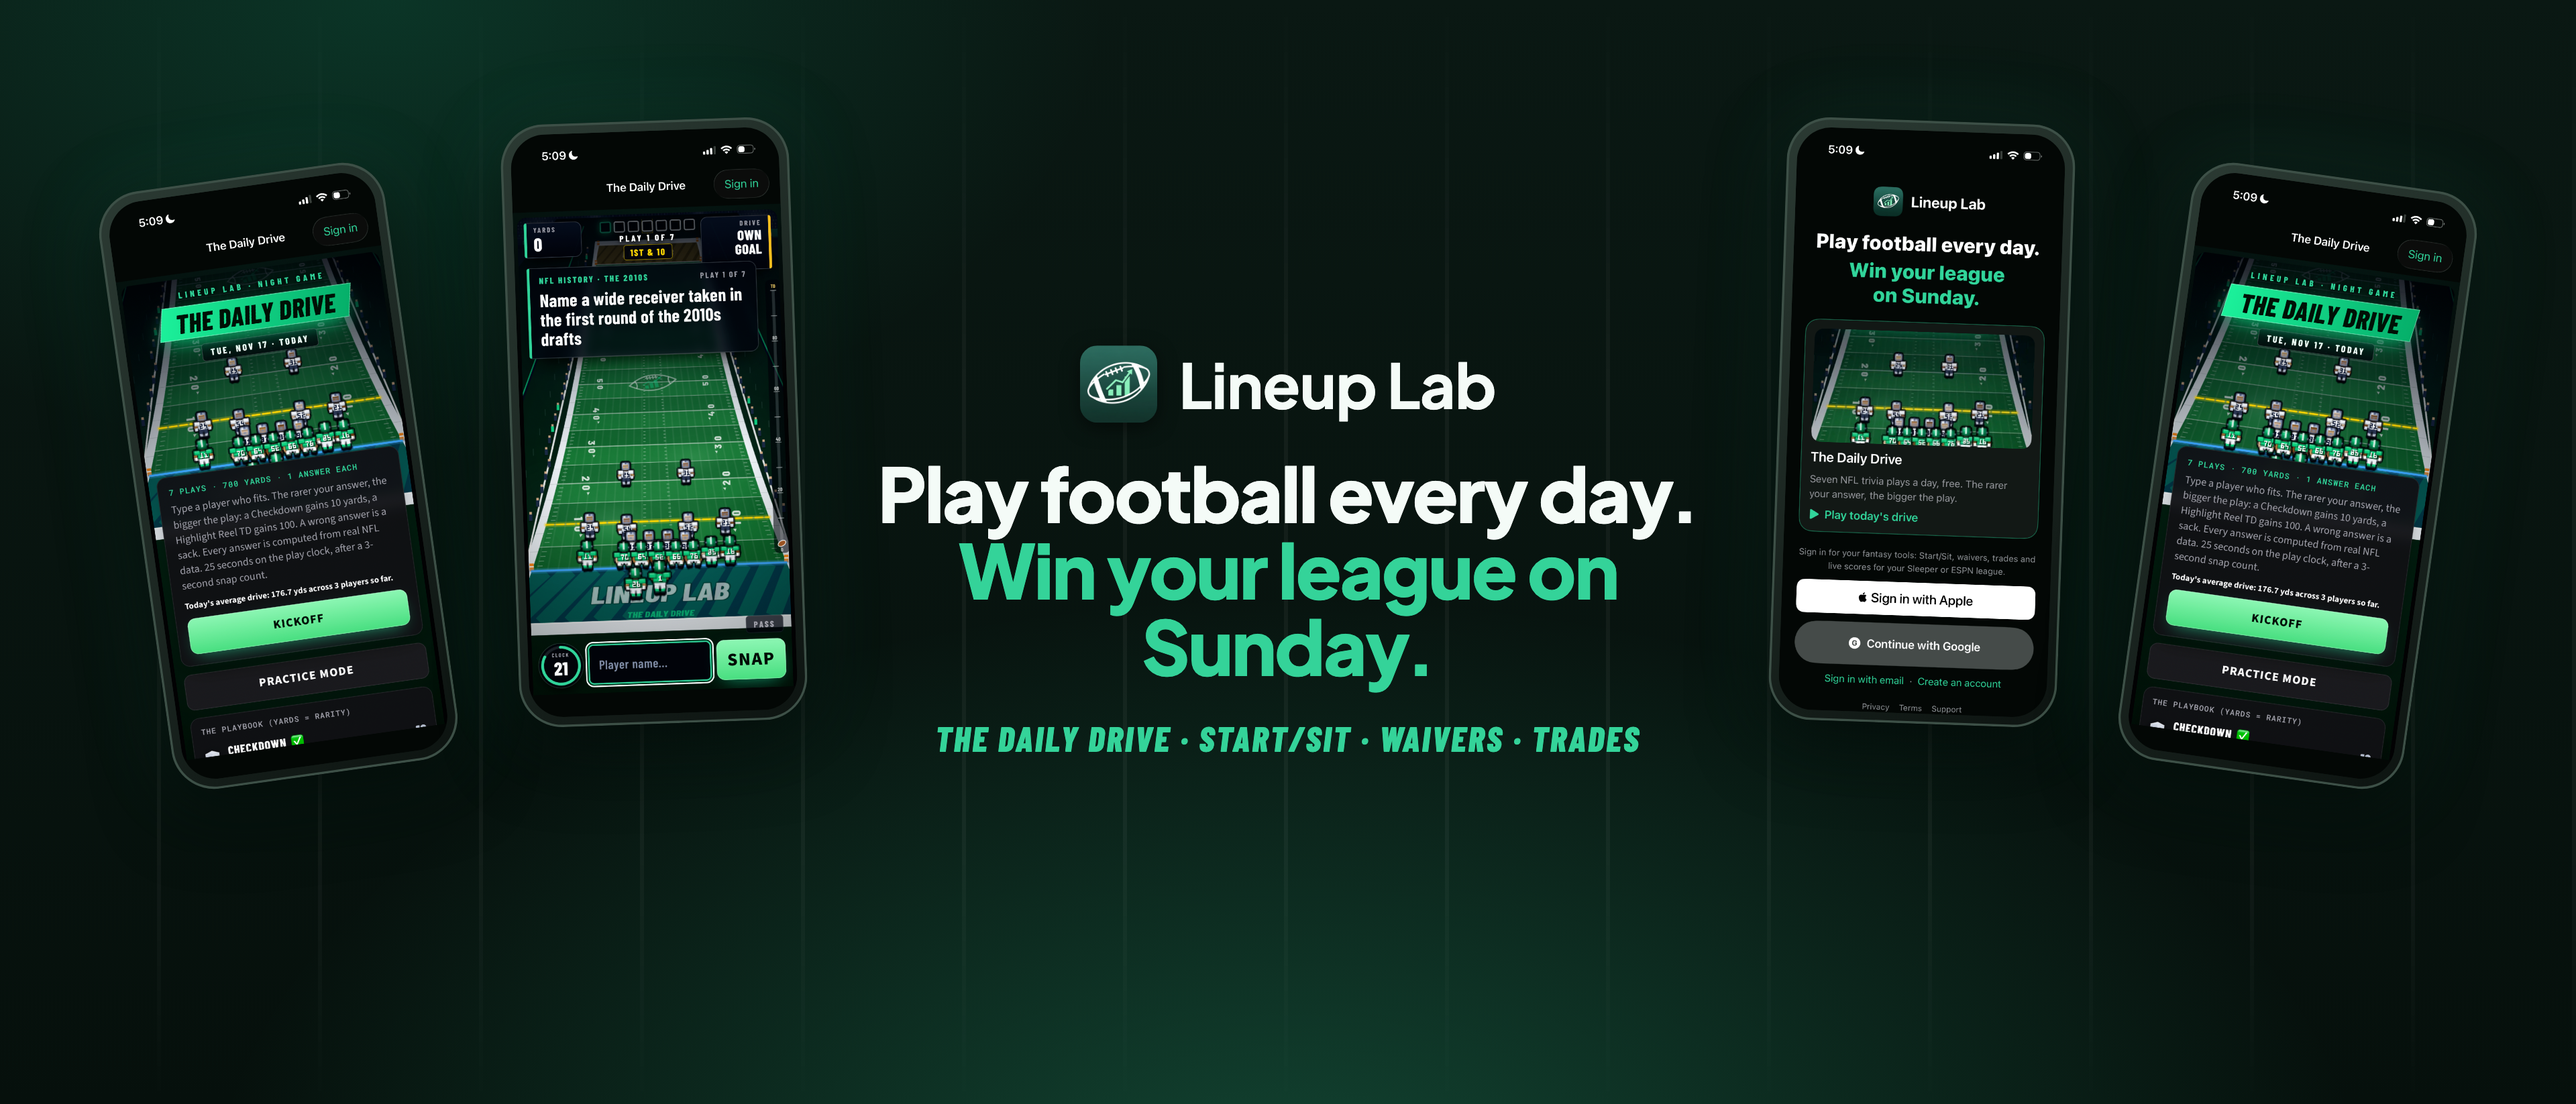
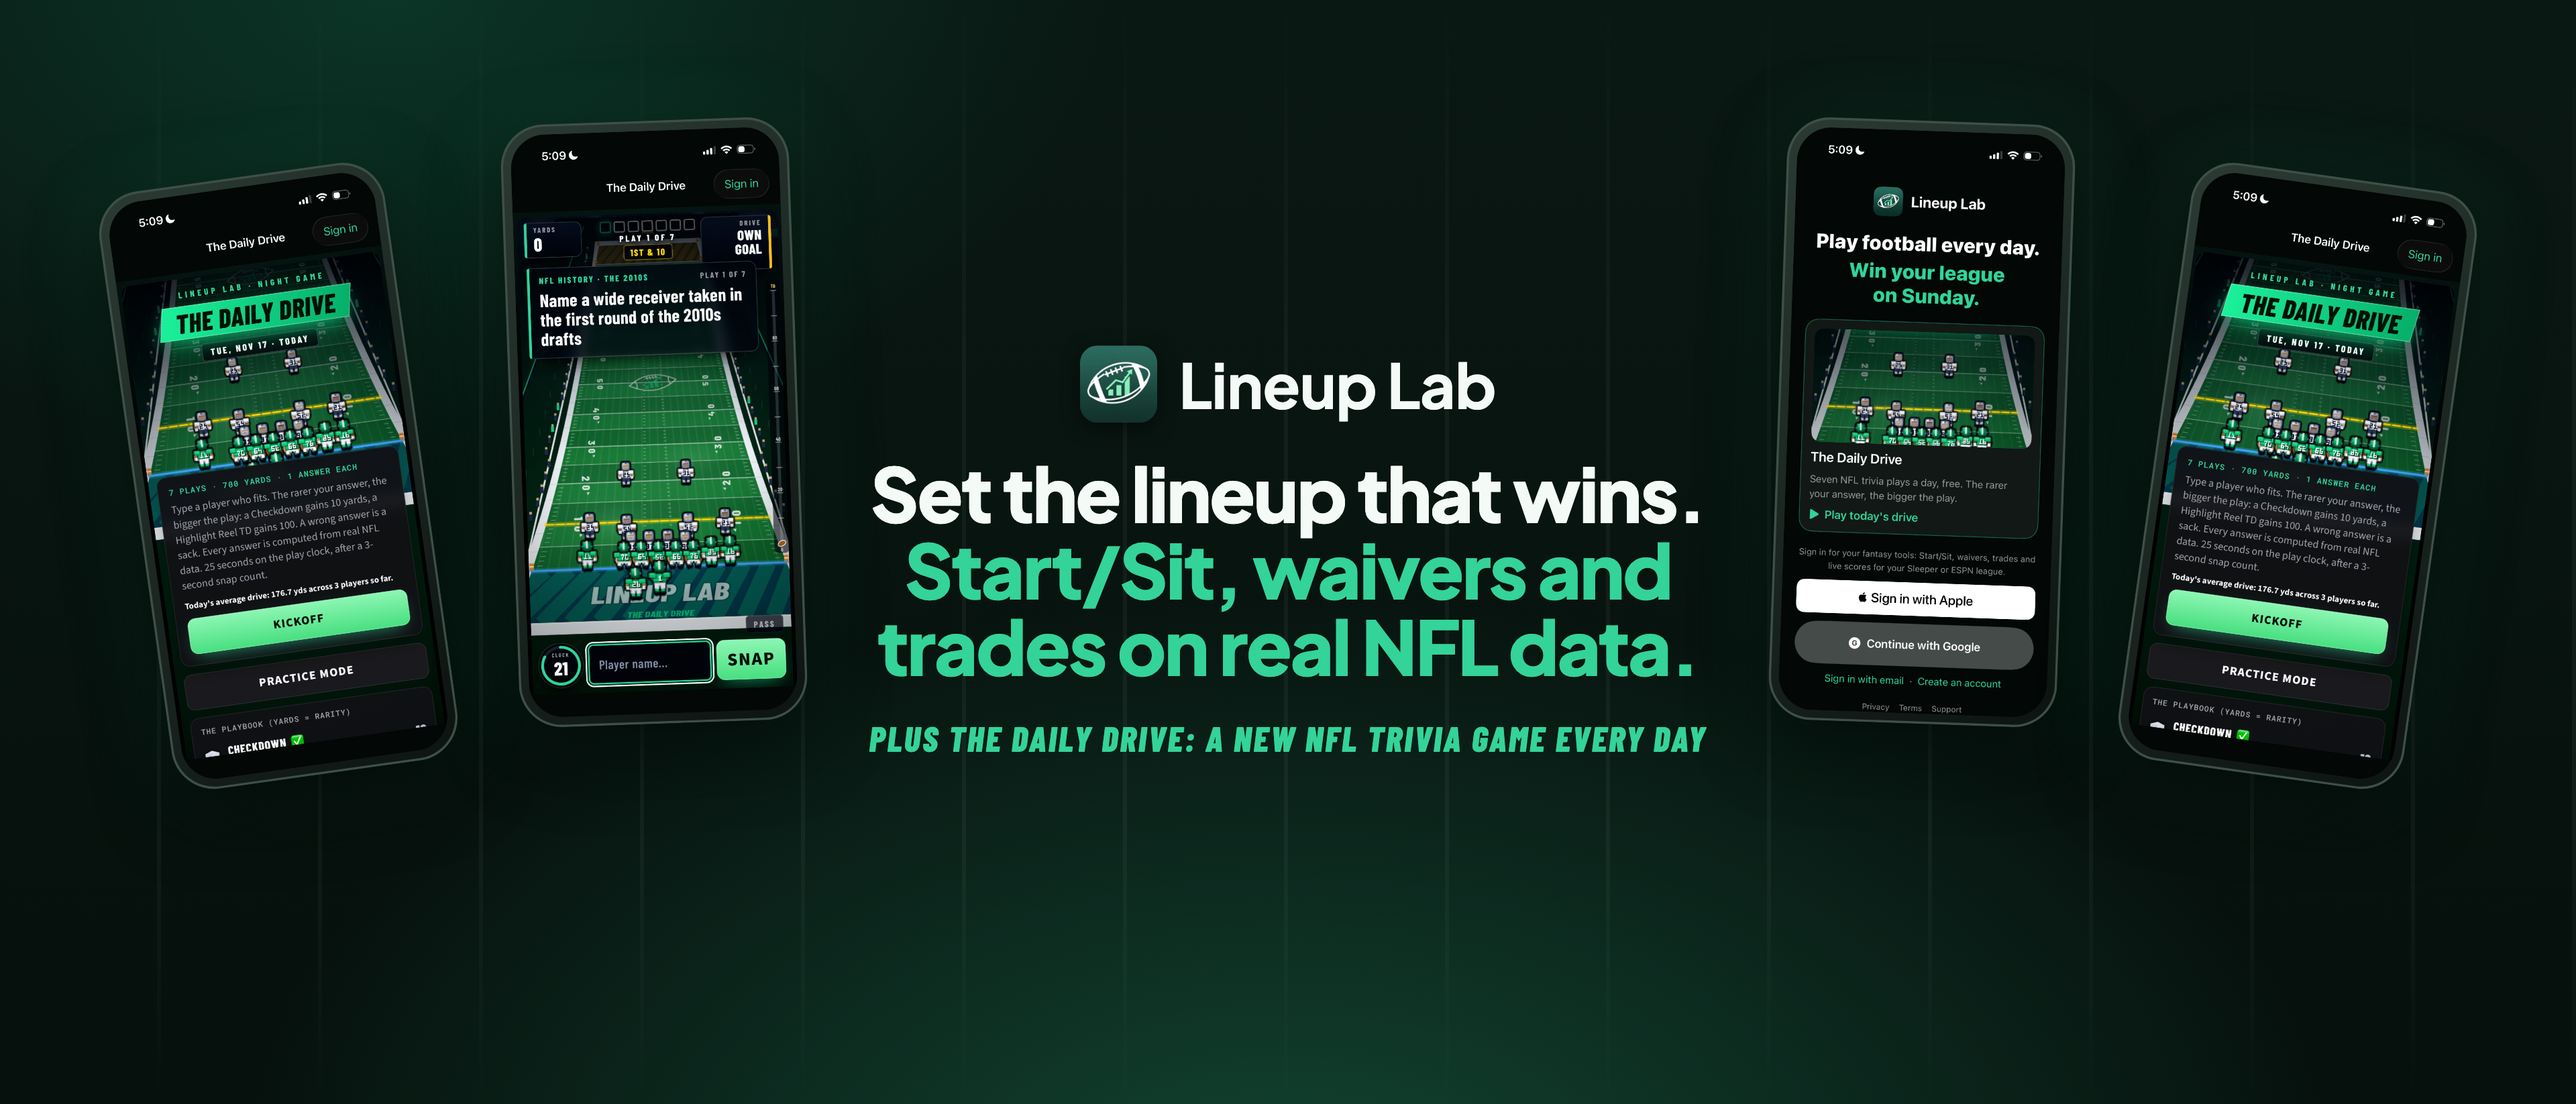
iOS: fantasy-first slogans on App Store header and search art

Changed region(s): [[0.3438, 0.4028, 0.6562, 0.6197], [0.3438, 0.6507, 0.6562, 0.6817]]

diff --git a/ios/AppStore/art/search.html b/ios/AppStore/art/search.html
@@ -13,9 +13,9 @@ h1{font-size:196px}
 </style></head><body><div class="stage"><div class="yard"></div>
 <div class="copy">
  <div class="brand"><img src="../../../static/icons/icon-512.png"><span>Lineup Lab</span></div>
- <h1>NFL trivia every day.<br><em>Fantasy wins on Sunday.</em></h1>
- <p class="sub">The Daily Drive: name the player nobody remembers for a 100-yard TD. Then let the same data set your lineup.</p>
- <div class="chips"><b>Daily Drive</b><b>Start/Sit</b><b>Waivers</b><b>Trades</b></div>
+ <h1>Set the lineup<br>that wins.<br><em>Every week.</em></h1>
+ <p class="sub">Connect Sleeper or ESPN in 30 seconds for Start/Sit, waivers and trades. Plus The Daily Drive, a new NFL trivia game every day.</p>
+ <div class="chips"><b>Start/Sit</b><b>Waivers</b><b>Trades</b><b>Daily Drive</b></div>
 </div>
 <div class="phone p1"><img src="../screenshots/iphone/02-drive-intro.png"></div>
 <div class="phone p2"><img src="../screenshots/iphone/03-drive-play.png"></div>

diff --git a/ios/AppStore/art/header.html b/ios/AppStore/art/header.html
@@ -18,6 +18,6 @@ h1{font-size:112px}
 <div class="phone p4"><img src="../screenshots/iphone/02-drive-intro.png"></div>
 <div class="center">
  <div class="brand"><img src="../../../static/icons/icon-512.png"><span>Lineup Lab</span></div>
- <h1>Play football every day.<br><em>Win your league on Sunday.</em></h1>
- <div class="kicker">The Daily Drive · Start/Sit · Waivers · Trades</div>
+ <h1>Set the lineup that wins.<br><em>Start/Sit, waivers and trades on real NFL data.</em></h1>
+ <div class="kicker">Plus The Daily Drive: a new NFL trivia game every day</div>
 </div></div></body></html>
